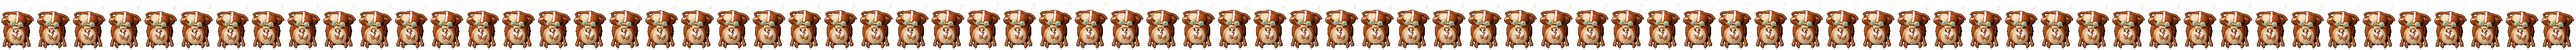
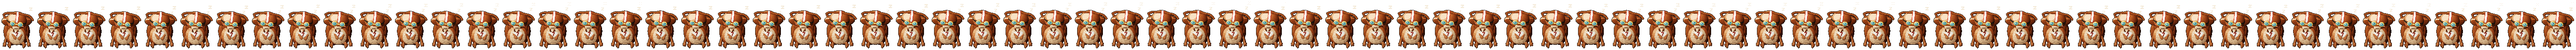
wip(pets): таракан — тесты, руки огибают живот, усы в покое на кадре 0
Claude-Session: https://claude.ai/code/session_018QnrYRe8jfmREkVPy3Dca8

Changed region(s): [[0.6844, 0.7642, 0.7156, 0.7925], [0.4356, 0.7642, 0.4667, 0.7925]]

diff --git a/src/lib/pets-pixel.test.ts b/src/lib/pets-pixel.test.ts
@@ -13,6 +13,7 @@ import * as Fox from './pets-pixel/fox';
 import * as Owl from './pets-pixel/owl';
 import * as Raccoon from './pets-pixel/raccoon';
 import * as Raven from './pets-pixel/raven';
+import * as Roach from './pets-pixel/roach';
 import * as Shepherd from './pets-pixel/shepherd';
 import * as Spider from './pets-pixel/spider';
 import * as Wolf from './pets-pixel/wolf';
@@ -754,5 +755,120 @@ describe('пиксельный бульдог', () => {
     const b = W.poseAt('walk', 0.75);
     expect(b.fRz).toBeGreaterThan(1);
     expect(b.fLz).toBe(0);
+  });
+});
+
+describe('пиксельный таракан', () => {
+  const W = Roach;
+
+  it('рисунок детерминирован; золотой рисует сам, на том же холсте', () => {
+    for (const r of ['s', 'l'] as const)
+      for (const v of [0, 1]) {
+        const a = W.roachFrame('work', 30, r, v);
+        const b = W.roachFrame('work', 30, r, v);
+        expect([a.w, a.h]).toEqual([W.RES[r].cw, W.RES[r].ch]);
+        expect(Buffer.from(a.data).equals(Buffer.from(b.data))).toBe(true);
+      }
+    const plain = W.roachFrame('idle', 0, 's', 0).data;
+    const gold = W.roachFrame('idle', 0, 's', 1).data;
+    expect(Buffer.from(plain).equals(Buffer.from(gold))).toBe(false);
+  });
+
+  it('манифест совпадает с рисовальщиком: обе полосы, кадры, 24 к/с, только свой золотой', () => {
+    const m = PET_PX.roach;
+    expect(m.box).toBe(W.RES.s.box);
+    expect(m.large?.box).toBe(W.RES.l.box);
+    for (const a of ANIMS) {
+      for (const set of [m, m.large!]) {
+        expect(set.anims[a].n).toBe(W.FRAMES[a]);
+        expect(set.anims[a].fps).toBe(W.FPS);
+      }
+      expect(PIXEL_PETS.roach.anims[a]).toEqual({ n: W.FRAMES[a], fps: W.FPS });
+    }
+    expect(PIXEL_PETS.roach.variants).toEqual([1]);
+    expect(PET_SPRITES.roach).toBeUndefined();
+    expect(pixelList).toContain('roach');
+    const sec = (a: Anim) => W.FRAMES[a] / W.FPS;
+    expect([sec('idle'), sec('sleep'), sec('walk'), sec('work')]).toEqual([3, 3, 1, 2]);
+    expect(Math.abs(sec('happy') - 1.1)).toBeLessThan(0.05);
+    expect(Math.abs(sec('attack') - 0.9)).toBeLessThan(0.05);
+  });
+
+  it('разовые кончаются позой начала покоя, петли — без шва (и поза, и вторичное движение)', () => {
+    const T = (a: Anim) => W.FRAMES[a] / W.FPS;
+    const rest = W.poseAt('idle', 0);
+    const lag0 = W.lagOf('idle', 0);
+    for (const a of ['happy', 'work', 'attack'] as Anim[]) {
+      expect([a, poseDiff(W.poseAt(a, T(a)), rest)]).toEqual([a, []]);
+      expect([a, poseDiff(W.lagOf(a, T(a)), lag0, 0.05)]).toEqual([a, []]);
+    }
+    for (const a of ['idle', 'walk', 'sleep'] as Anim[]) {
+      expect([a, poseDiff(W.poseAt(a, T(a)), W.poseAt(a, 0))]).toEqual([a, []]);
+      expect([a, poseDiff(W.lagOf(a, T(a)), W.lagOf(a, 0), 0.05)]).toEqual([a, []]);
+    }
+  });
+
+  it('трюк: очки опускает рукой, забег за край и обратно с другой стороны, юз, палец вверх — к концу всё убрано', () => {
+    const P = (t: number) => W.poseAt('work', t);
+    expect(P(0.2).grab).toBeGreaterThan(0.9);
+    expect(P(0.2).gog).toBeGreaterThan(0.2);
+    expect(P(0.4).gog).toBe(1);
+    // Убегает вправо, лицом вправо, сзади — пыль старта.
+    expect(P(0.8).x).toBeGreaterThan(40);
+    expect(P(0.8).yaw).toBeGreaterThan(0.5);
+    expect(P(0.8).dust1).toBeGreaterThanOrEqual(0);
+    // Возвращается слева, бежит туда же (вправо).
+    expect(P(0.86).x).toBeLessThan(-40);
+    expect(P(0.95).x).toBeGreaterThan(P(0.86).x);
+    // Юз: откинулся назад, ступни впереди, пыль из-под ног.
+    const sk = P(1.3);
+    expect(sk.lean).toBeLessThan(-0.1);
+    expect(sk.fLx).toBeGreaterThan(1);
+    expect(sk.dust2).toBeGreaterThanOrEqual(0);
+    const th = P(1.55);
+    expect(th.thumb).toBeGreaterThan(0.9);
+    expect(th.glint).toBeGreaterThanOrEqual(0);
+    expect(th.gog).toBe(1);
+    // Очки поднимает той же рукой.
+    expect(P(1.8).grab).toBeGreaterThan(0.9);
+    expect(P(1.8).gog).toBeLessThan(0.5);
+    const end = P(2);
+    expect([
+      end.gog,
+      end.grab,
+      end.thumb,
+      end.glint,
+      end.dust1,
+      end.dust2,
+      end.speed,
+      end.x,
+    ]).toEqual([0, 0, 0, -1, -1, -1, 0, 0]);
+  });
+
+  it('атака: замах руками вверх, удар — кисти впереди, жвалы открыты; сон — сидя, очки на глазах', () => {
+    const wind = W.poseAt('attack', 0.25);
+    expect(wind.aRz).toBeGreaterThan(23);
+    expect(wind.aLz).toBeGreaterThan(23);
+    const strike = W.poseAt('attack', 0.42);
+    expect(strike.jaw).toBeGreaterThan(0.5);
+    expect(strike.bite).toBeGreaterThanOrEqual(0);
+    expect(strike.scale).toBeGreaterThan(1.1);
+    expect(strike.aRy).toBeGreaterThan(6);
+    expect(strike.bLy).toBeGreaterThan(6);
+    const sleep = W.poseAt('sleep', 1.5);
+    expect([sleep.sit, sleep.gog, sleep.droop]).toEqual([1, 1, 1]);
+  });
+
+  it('ходьба: ноги по очереди, опорная стоит на полу и не едет за телом', () => {
+    const a = W.poseAt('walk', 0.125);
+    expect(a.fLz).toBeGreaterThan(1);
+    expect(a.fRz).toBe(0);
+    const b = W.poseAt('walk', 0.375);
+    expect(b.fRz).toBeGreaterThan(1);
+    expect(b.fLz).toBe(0);
+    for (let i = 0; i < W.FRAMES.walk; i++) {
+      const o = W.poseAt('walk', i / W.FPS);
+      expect([o.carry, o.fLx, o.fRx]).toEqual([0, 0, 0]);
+    }
   });
 });

diff --git a/src/lib/pets-pixel/roach.ts b/src/lib/pets-pixel/roach.ts
@@ -366,7 +366,7 @@ export interface Pose {
 }
 
 /** Кисти в покое: верхние — у пояса, нижние — ниже и шире (веером, как в туши). */
-const HA: V3 = [8.9, 3.6, 12.2];
+const HA: V3 = [9.4, 3.6, 12.2];
 const HB: V3 = [12.4, 3.6, 7.6];
 
 const REST: Pose = {
@@ -485,6 +485,9 @@ function idlePose(t: number): Pose {
   const ph = Math.sin(TAU * 5 * (t - 1.1)) * bump(t, 1.0, 1.75);
   setH(o, 'aL', [-1.7 + 0.5 * ph, 8.6, 18.0 + 0.4 * ph], rub);
   setH(o, 'aR', [1.7 + 0.5 * ph, 8.6, 18.0 - 0.4 * ph], rub);
+  // По пути от бёдер к груди кисти обходят живот спереди, а не сквозь него.
+  o.aLy += 7.2 * rub * (1 - rub);
+  o.aRy += 7.2 * rub * (1 - rub);
   o.eye = rub > 0.6 ? 'half' : 'open';
   o.smile = REST.smile + 0.4 * rub;
   o.nod = 0.05 * rub;
@@ -518,8 +521,9 @@ function idlePose(t: number): Pose {
   o.blink = Math.max(bump(t, 0.35, 0.5), bump(t, 2.8, 2.94));
   // Усы качаются каждый в своей фазе и дёргаются.
   o.antL = 0.07 * Math.sin((t / T) * TAU * 2) + 0.22 * bump(t, 1.95, 2.12);
-  o.antR = 0.07 * Math.sin((t / T) * TAU * 2 + 1.9) + 0.26 * bump(t, 0.68, 0.84);
-  o.antF = 0.05 * Math.sin((t / T) * TAU + 0.6);
+  // Фазы сдвинуты, но в кадре 0 усы в покое (REST): разовые кончаются ровно здесь.
+  o.antR = 0.07 * (Math.sin((t / T) * TAU * 2 + 1.9) - Math.sin(1.9)) + 0.26 * bump(t, 0.68, 0.84);
+  o.antF = 0.05 * (Math.sin((t / T) * TAU + 0.6) - Math.sin(0.6));
   o.shine = t >= 1.15 && t < 1.85 ? (t - 1.15) / 0.7 : -1;
   return o;
 }
@@ -544,8 +548,9 @@ function walkPose(t: number): Pose {
   o.tilt = -0.05 * sw;
   // Руки работают накрест: верхняя левая вперёд — с нижней правой.
   const p = Math.sin(u * TAU * 2);
-  setH(o, 'aL', [-8.4, 4.6 + 3.4 * p, 14.4 + 1.0 * p], 1);
-  setH(o, 'aR', [8.4, 4.6 - 3.4 * p, 14.4 - 1.0 * p], 1);
+  // Отведённая назад кисть уходит в сторону — мимо бока, не в него.
+  setH(o, 'aL', [-8.6 - 1.6 * pos(-p), 4.6 + 3.4 * p, 14.4 + 1.0 * p], 1);
+  setH(o, 'aR', [8.6 + 1.6 * pos(p), 4.6 - 3.4 * p, 14.4 - 1.0 * p], 1);
   setH(o, 'bL', [-11.0, 3.8 - 2.6 * p, 8.4], 1);
   setH(o, 'bR', [11.0, 3.8 + 2.6 * p, 8.4], 1);
   o.smile = 0.75;
@@ -678,7 +683,8 @@ function workPose(t: number): Pose {
     [1.12, 1],
     [1.24, 0, 's'],
   ]);
-  o.runPh = TAU * 7 * clamp01((t - 0.46) / 0.78) * 0.78;
+  // Фаза бега нужна, пока `run` > 0; после — 0 (поза конца трюка = покой).
+  o.runPh = run > 0 ? TAU * 7 * clamp01((t - 0.46) / 0.78) * 0.78 : 0;
   o.blur = run;
   o.carry = kf(t, [
     [0, 0],
@@ -703,9 +709,9 @@ function workPose(t: number): Pose {
   // Руки: на старте — как у бегуна, в беге — работают часто.
   const pump = Math.sin(o.runPh) * run;
   setH(o, 'aL', [-7.6, 7.8, 16.2], crouch);
-  setH(o, 'aR', [8.6, 0.6, 14.4], crouch);
-  setH(o, 'aL', [-8.2, 4.4 + 3.6 * pump, 15.0], run);
-  setH(o, 'aR', [8.2, 4.4 - 3.6 * pump, 15.0], run);
+  setH(o, 'aR', [10.4, 0.6, 14.4], crouch);
+  setH(o, 'aL', [-8.4 - 1.8 * pos(-pump), 4.4 + 3.6 * pump, 15.0], run);
+  setH(o, 'aR', [8.4 + 1.8 * pos(pump), 4.4 - 3.6 * pump, 15.0], run);
   setH(o, 'bL', [-11.0, 3.4 - 2.8 * pump, 9.0], run);
   setH(o, 'bR', [11.0, 3.4 + 2.8 * pump, 9.0], run);
   o.speed = kf(t, [
@@ -774,7 +780,7 @@ function swipeU(t: number, j: number): number {
 function swipePath(side: number, u: number): V3 {
   const a: V3 = [side * 10.6, 0.8, 25.2];
   const b: V3 = [side * 7.8, 8.6, 22.4];
-  const e: V3 = [side * 1.6, 7.2, 15.0];
+  const e: V3 = [side * 1.6, 8.0, 15.0];
   const v = 1 - u;
   return [0, 1, 2].map((i) => v * v * a[i] + 2 * v * u * b[i] + u * u * e[i]) as V3;
 }
@@ -822,6 +828,9 @@ function attackPose(t: number): Pose {
   const uL = swipeU(t, 1);
   setH(o, 'aR', swipePath(1, uR), eng);
   setH(o, 'aL', swipePath(-1, uL), eng);
+  // Возврат к бёдрам — дугой перед животом.
+  o.aRy += 6 * eng * (1 - eng);
+  o.aLy += 6 * eng * (1 - eng);
   const ub = kf(t, [
     [0.33, 0],
     [0.43, 1, 'o'],
@@ -871,8 +880,9 @@ function sleepPose(t: number): Pose {
   o.bow = 0.1;
   o.hz = -0.3 + 0.25 * br;
   o.sq = -0.04 * br;
-  setH(o, 'aL', [-1.6, 7.4, 13.0], 1);
-  setH(o, 'aR', [2.6, 7.2, 12.2], 1);
+  // Кисти лежат на животе и поднимаются с дыханием.
+  setH(o, 'aL', [-1.6, 8.0 + 0.3 * br, 13.0], 1);
+  setH(o, 'aR', [2.6, 7.9 + 0.3 * br, 12.2], 1);
   setH(o, 'bL', [-11.0, 3.4, 3.9], 1);
   setH(o, 'bR', [11.0, 3.4, 3.9], 1);
   o.smile = 0.3;

diff --git a/src/lib/pet-pixel-sprites.ts b/src/lib/pet-pixel-sprites.ts
@@ -208,9 +208,9 @@ export const PET_PX: Record<string, PetPx> = {
   },
   roach: {
     box: 48,
-    rev: '7b41e1476d',
+    rev: '4203ca6da3',
     anims: {
-      idle: { n: 72, fps: 24, x: 6, y: -5, w: 38, h: 54 },
+      idle: { n: 72, fps: 24, x: 6, y: -6, w: 37, h: 55 },
       walk: { n: 24, fps: 24, x: 4, y: -4, w: 42, h: 53 },
       happy: { n: 26, fps: 24, x: 5, y: -10, w: 39, h: 59 },
       work: { n: 48, fps: 24, x: -11, y: -6, w: 71, h: 56 },
@@ -220,7 +220,7 @@ export const PET_PX: Record<string, PetPx> = {
     large: {
       box: 112,
       anims: {
-        idle: { n: 72, fps: 24, x: 19, y: -5, w: 76, h: 115 },
+        idle: { n: 72, fps: 24, x: 19, y: -7, w: 76, h: 117 },
         walk: { n: 24, fps: 24, x: 14, y: -2, w: 88, h: 112 },
         happy: { n: 26, fps: 24, x: 17, y: -16, w: 80, h: 126 },
         work: { n: 48, fps: 24, x: -21, y: -8, w: 155, h: 119 },
